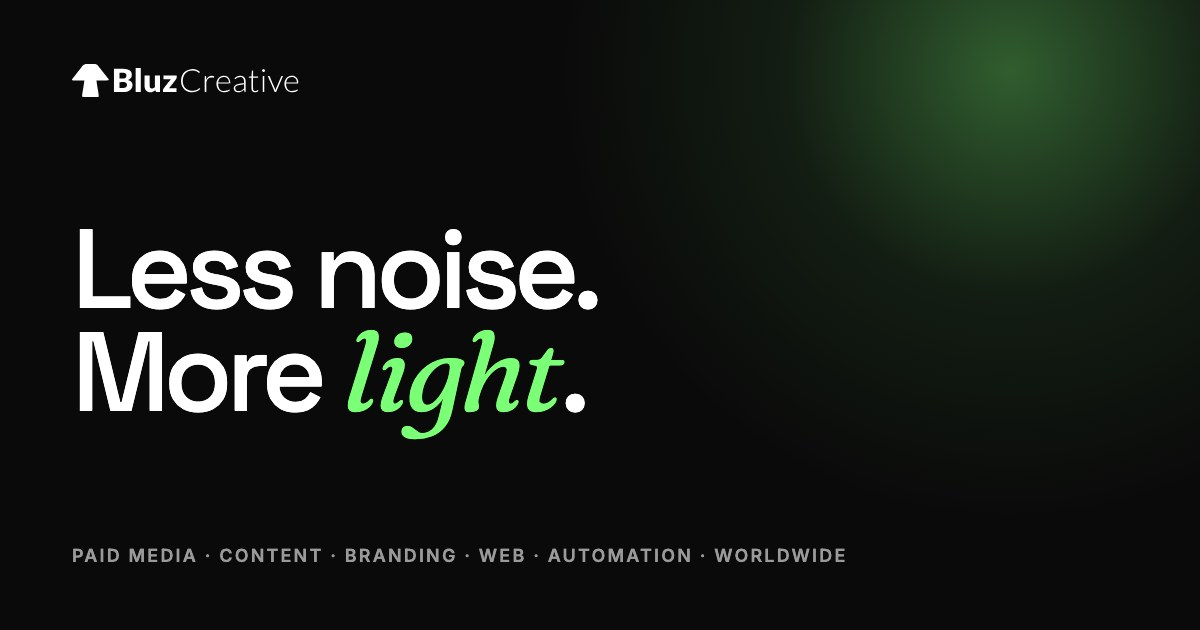
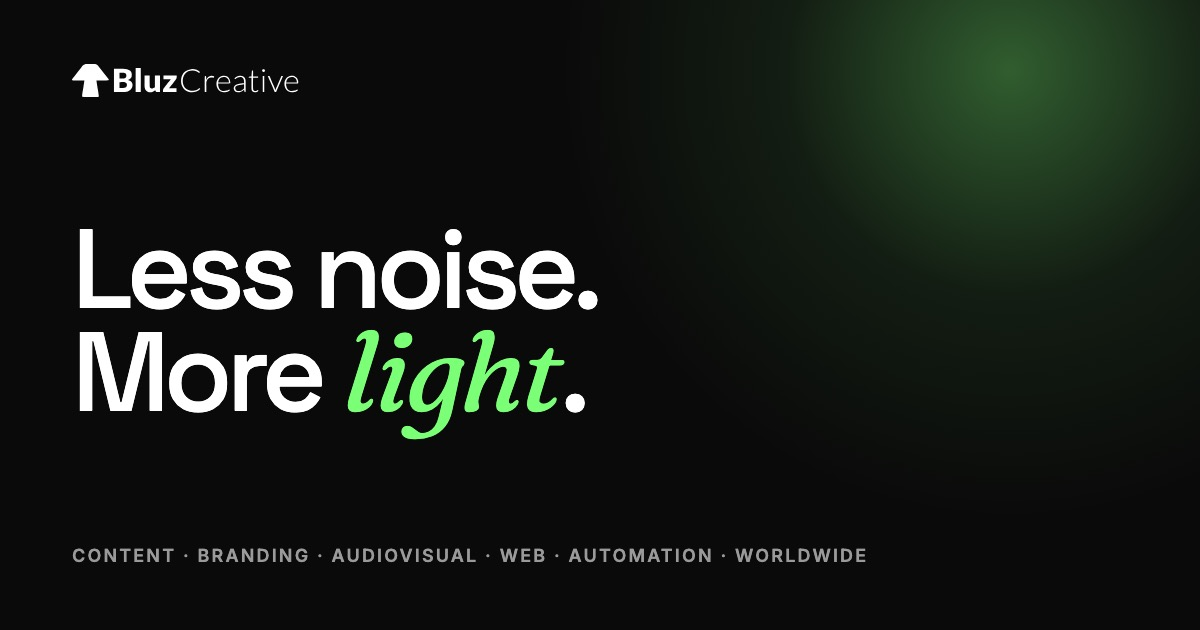
Imagen para compartir con la lista de servicios nueva

Changed region(s): [[0.0617, 0.8444, 0.74, 0.9048]]

diff --git a/docs/og/og-default.html b/docs/og/og-default.html
@@ -15,5 +15,5 @@
 <body><div class="glow"></div><div class="wrap">
   <img src="../../public/assets/logo.svg" alt="">
   <h1>Less noise.<br>More <em>light</em>.</h1>
-  <p>Paid media · Content · Branding · Web · Automation · Worldwide</p>
+  <p>Content · Branding · Audiovisual · Web · Automation · Worldwide</p>
 </div></body></html>
